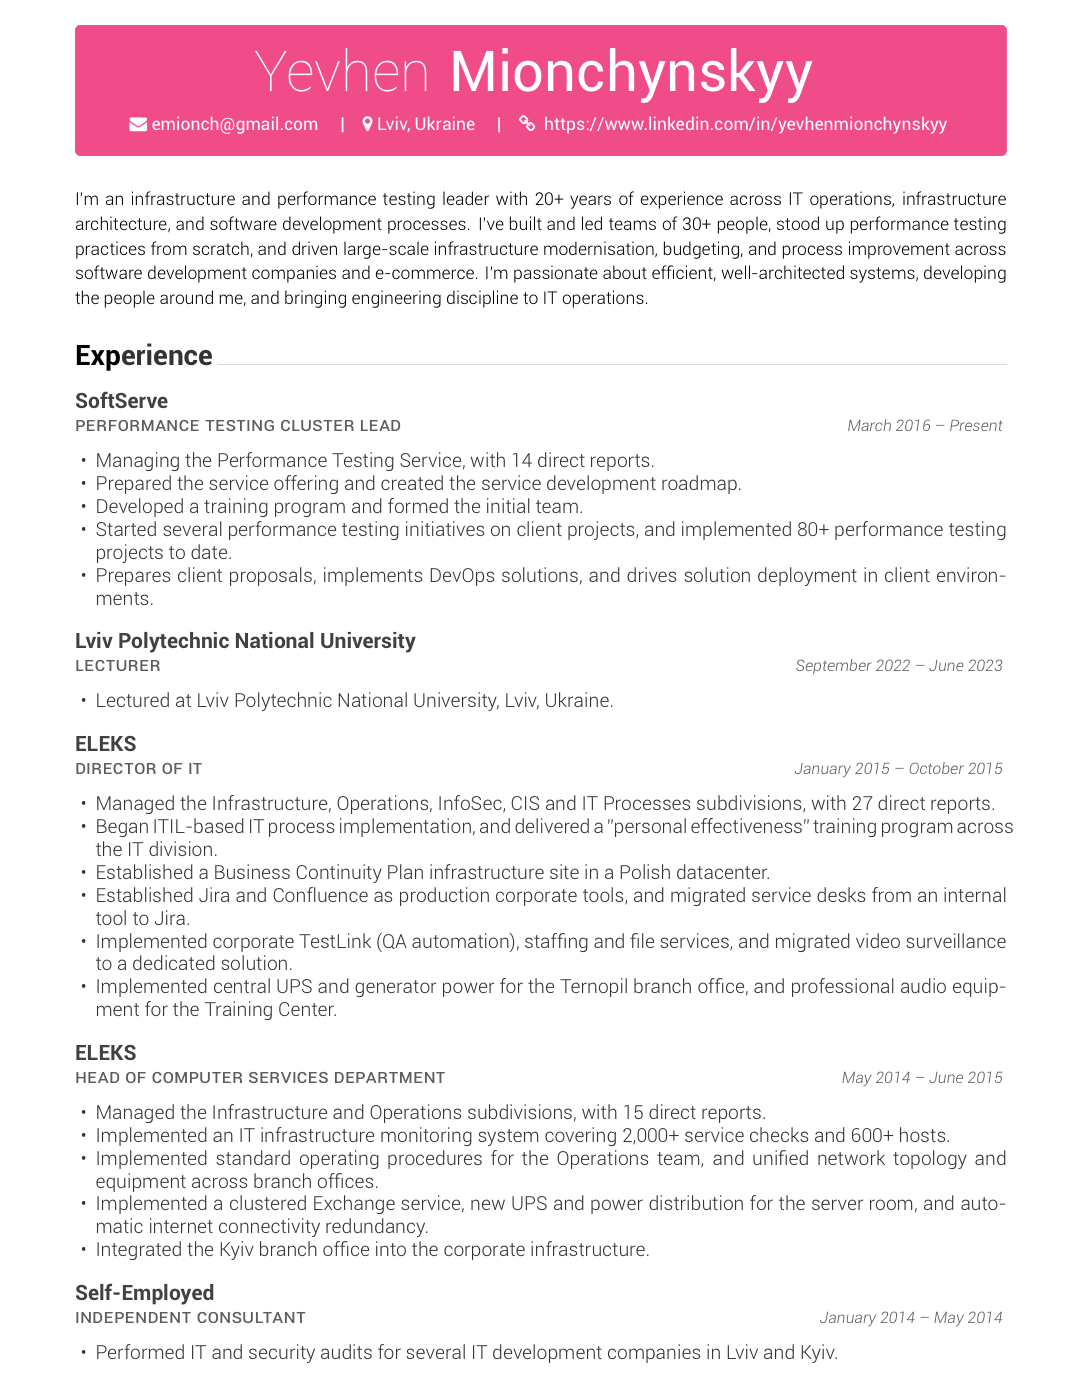
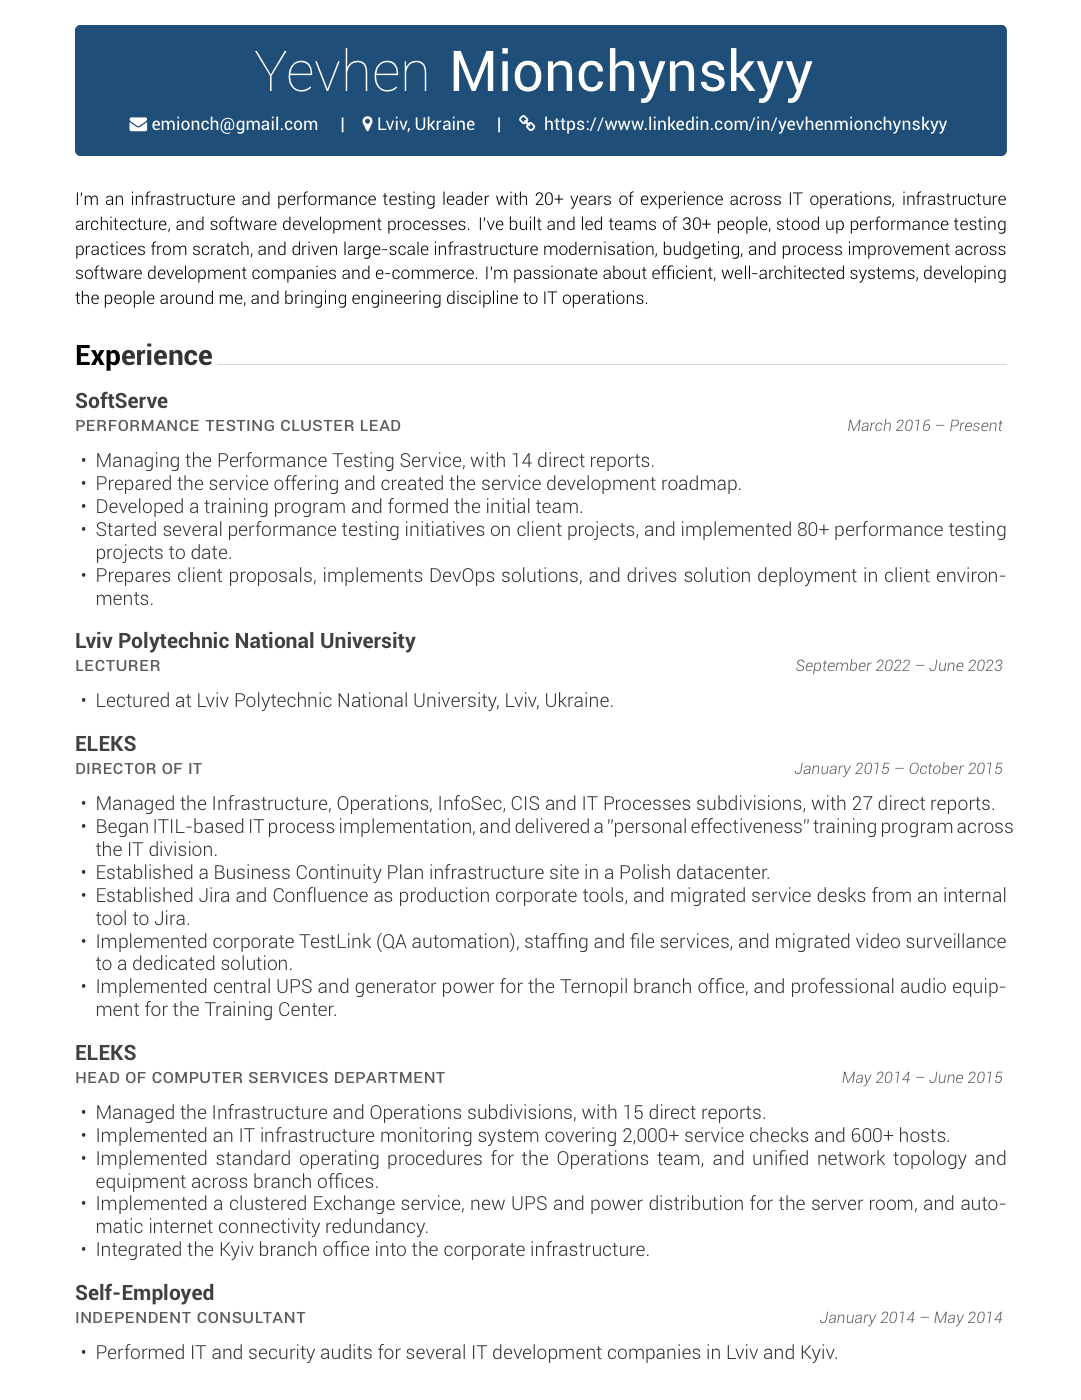
Switch the colour scheme from pink to navy
- PDF: override headerbg to #1F4E79 in the template, so the upstream
  LaTeX class stays untouched
- web: navy primary palette and a matching page tint
- favicon: redrawn in navy (same document-and-heart shape), as PNG,
  multi-size ICO and the SVG it was generated from

Changed region(s): [[0.0611, 0.0, 0.9463, 0.1229]]

diff --git a/web/src/styles/variables.scss b/web/src/styles/variables.scss
@@ -1,9 +1,9 @@
 :root {
 	--header-height: 4rem;
 	--sidebar-width: 18rem;
-	--primary: #f04c8a;
-	--primary-darker: #d33c75;
-	--primary-transparent: #f04c8a36;
+	--primary: #1f4e79;
+	--primary-darker: #173c5e;
+	--primary-transparent: #1f4e7936;
 	--background: #fff;
 	--text-color: #454545;
 	--text-color-dim: #949494;

diff --git a/web/src/styles/page-global.scss b/web/src/styles/page-global.scss
@@ -211,7 +211,7 @@ header {
 }
 
 main {
-	background: #e9e5ef;
+	background: #e9eef4;
 	padding: 1.25rem;
 	flex-grow: 1;
 	overflow-y: auto;

diff --git a/tex/resume.tex b/tex/resume.tex
@@ -21,6 +21,8 @@
 %% Color for highlight
 % Define your custom color if you don't like awesome colors
 \colorlet{awesome}{awesome-red}
+%% Header band colour (overrides the class default)
+\definecolor{headerbg}{HTML}{1F4E79}
 %\definecolor{awesome}{HTML}{CA63A8}
 %% Colors for text
 %\definecolor{darktext}{HTML}{414141}
@@ -54,7 +56,7 @@
     pdfproducer = {XeTeX},
     pdflang = {en-GB},
     pdfcreationdate = {D:20120901162042+01'00'},
-    pdfmoddate = {D:20260908133640+00'00'},
+    pdfmoddate = {D:20260908142021+00'00'},
     pdfdisplaydoctitle = true
   }%
 
